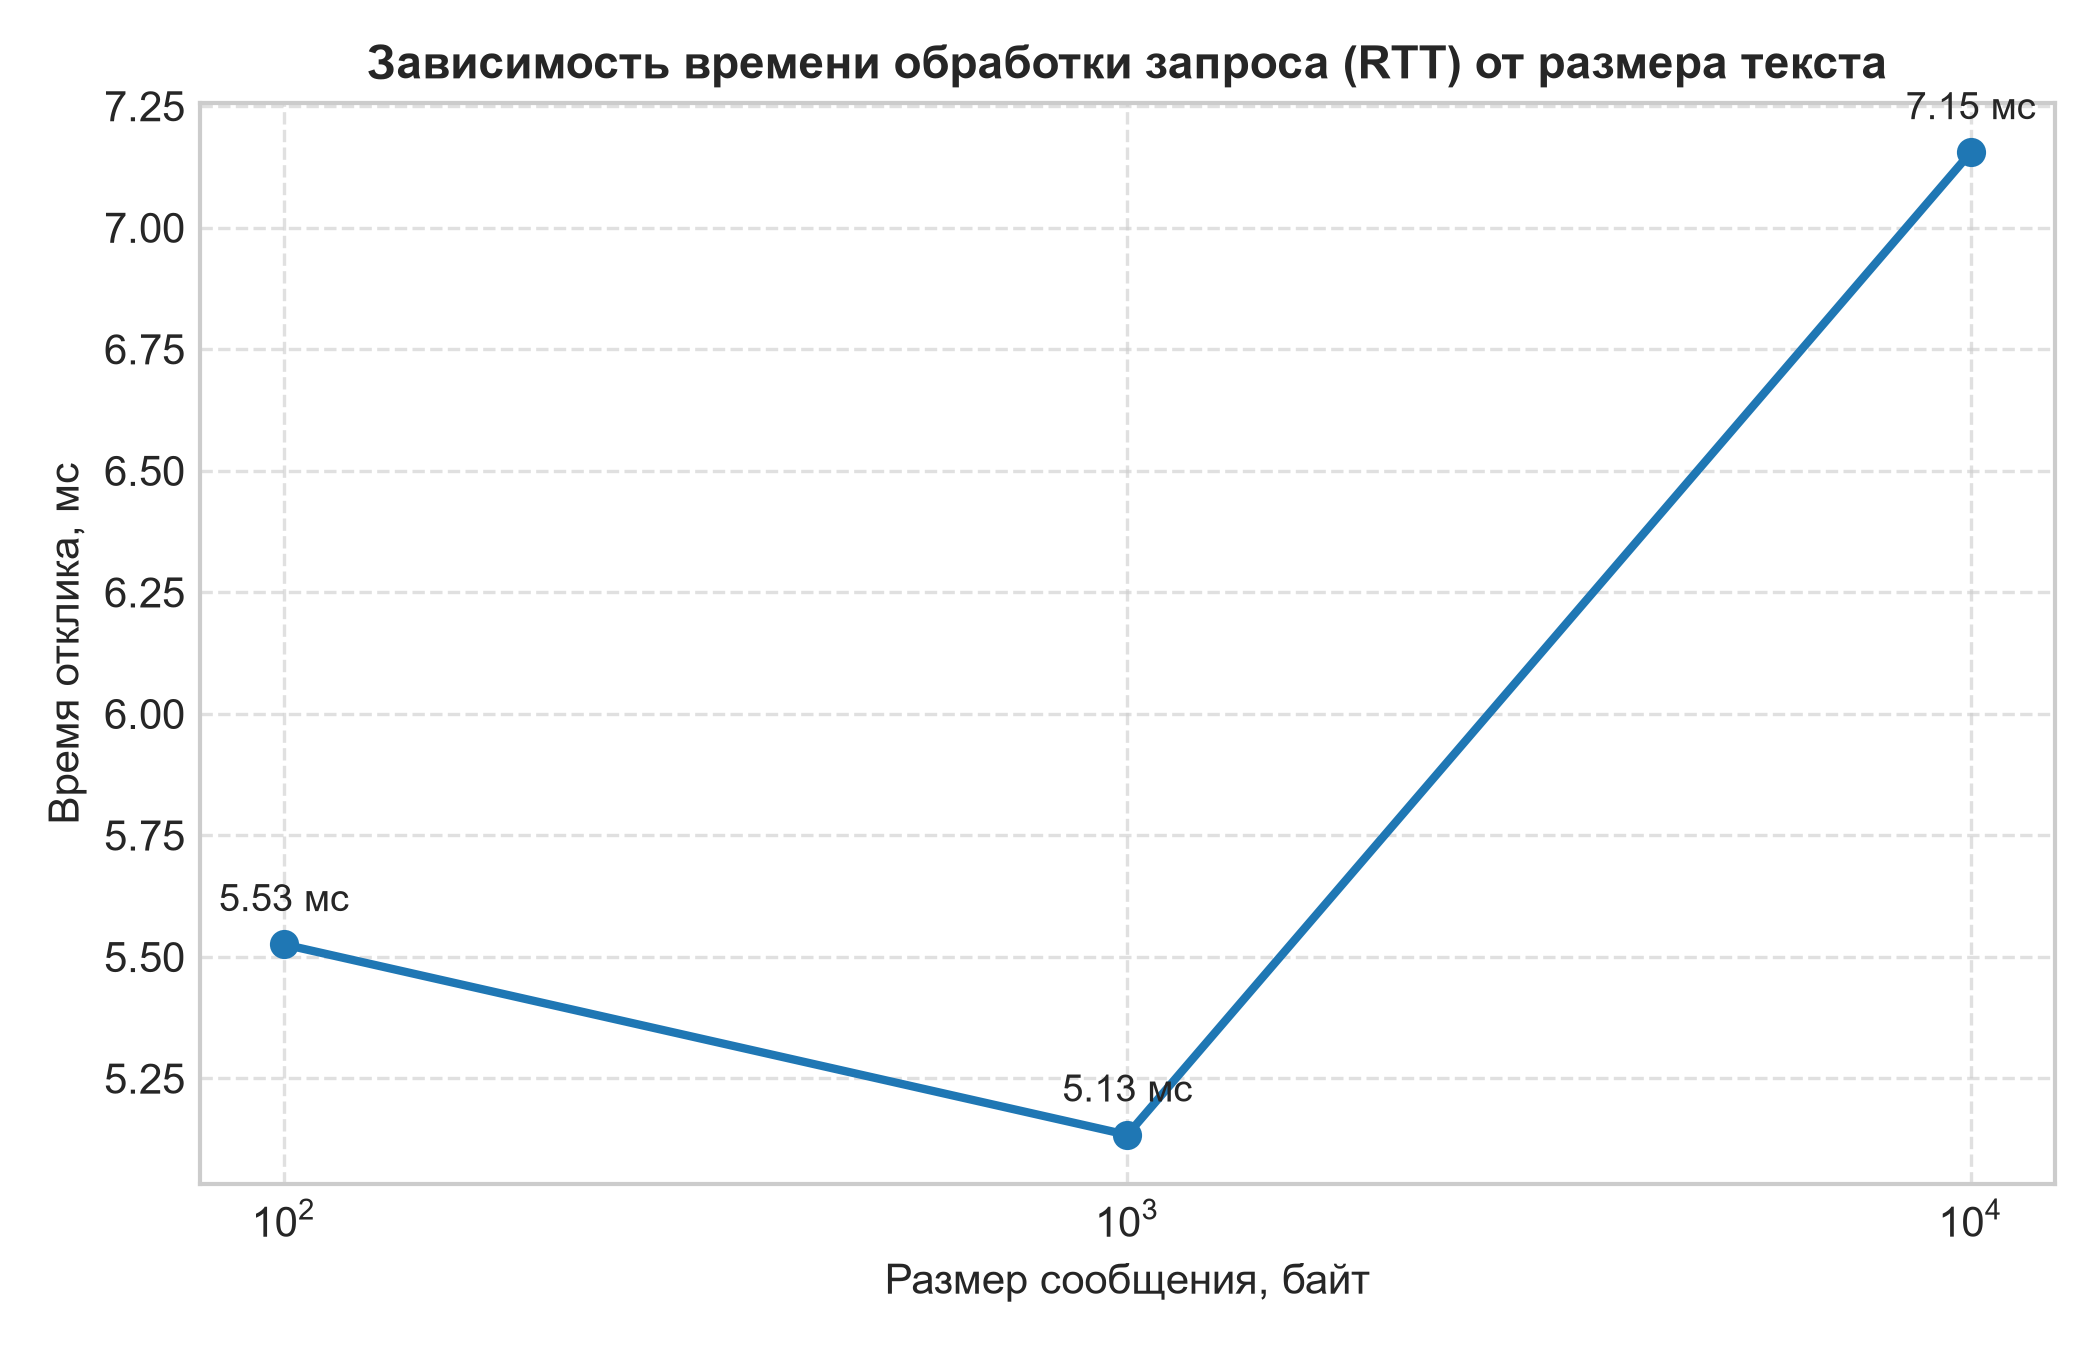
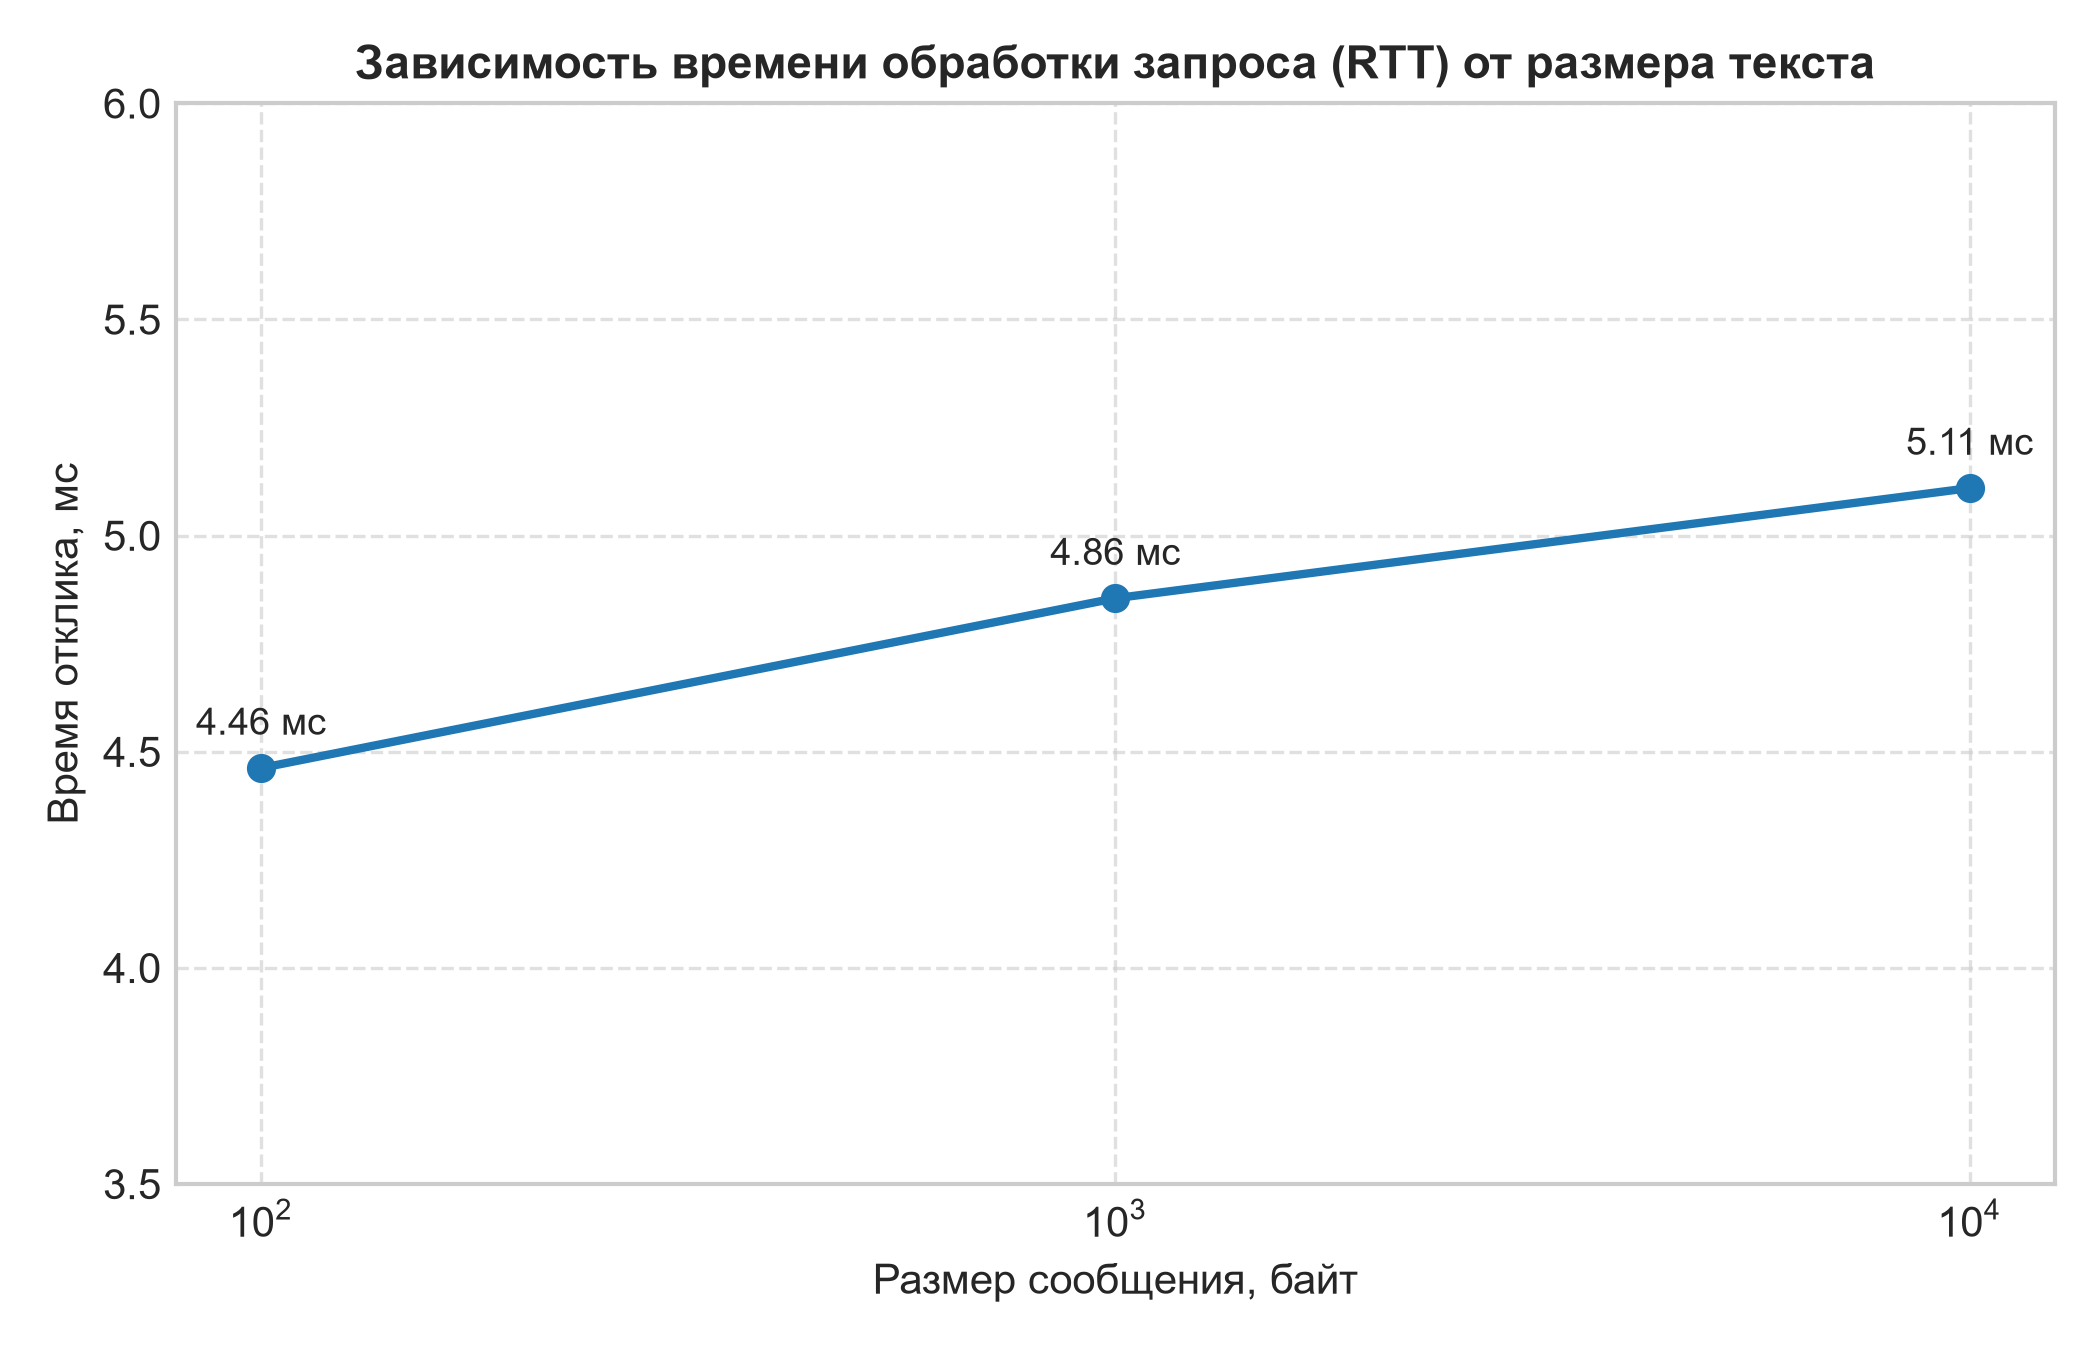
Уточнение экспериментальных измерений RTT и обновление графиков

diff --git a/Lab5/plot_graphs.py b/Lab5/plot_graphs.py
@@ -1,9 +1,9 @@
 import matplotlib.pyplot as plt
 
-# экспериментальные данные
+# экспериментальные данные студента масаловой (id = 72)
 sizes = [100, 1000, 10000]
-rtt_ms = [5.5257, 5.1340, 7.1546]
-throughput_kbps = [17.67, 190.22, 1364.95]
+rtt_ms = [4.4623, 4.8551, 5.1099]
+throughput_kbps = [21.88, 201.14, 1911.11]
 
 # настройка стилей графиков
 plt.style.use('seaborn-v0_8-whitegrid' if 'seaborn-v0_8-whitegrid' in plt.style.available else 'default')
@@ -15,6 +15,7 @@ plt.title('Зависимость времени обработки запрос
 plt.xlabel('Размер сообщения, байт', fontsize=10)
 plt.ylabel('Время отклика, мс', fontsize=10)
 plt.xscale('log')
+plt.ylim(3.5, 6.0)
 plt.grid(True, linestyle='--', alpha=0.6)
 for x, y in zip(sizes, rtt_ms):
     plt.annotate(f"{y:.2f} мс", (x, y), textcoords="offset points", xytext=(0, 8), ha='center', fontsize=9)
@@ -37,4 +38,4 @@ plt.tight_layout()
 plt.savefig('graph_throughput.png', dpi=300)
 plt.close()
 
-print("Графики успешно сохранены: graph_rtt.png и graph_throughput.png")
+print("Графики успешно обновлены: graph_rtt.png и graph_throughput.png")

diff --git a/Lab5/client/ClientMain.cpp b/Lab5/client/ClientMain.cpp
@@ -171,7 +171,7 @@ int main(int argc, char* argv[]) {
     // тест 1.3: фрагментированный tcp recv
     TestPartialTcpSend(sock, ++reqCounter, clientId);
 
-    // 2. экспериментальное исследование (100, 1000, 10000 байт по 3 запуска)
+    // экспериментальное исследование (100, 1000, 10000 байт по 3 запуска)
     std::cout << "\n================ ЭКСПЕРИМЕНТАЛЬНОЕ ИССЛЕДОВАНИЕ ================\n";
     const unsigned int sizes[] = { 100, 1000, 10000 };
     struct ExperimentRecord {
